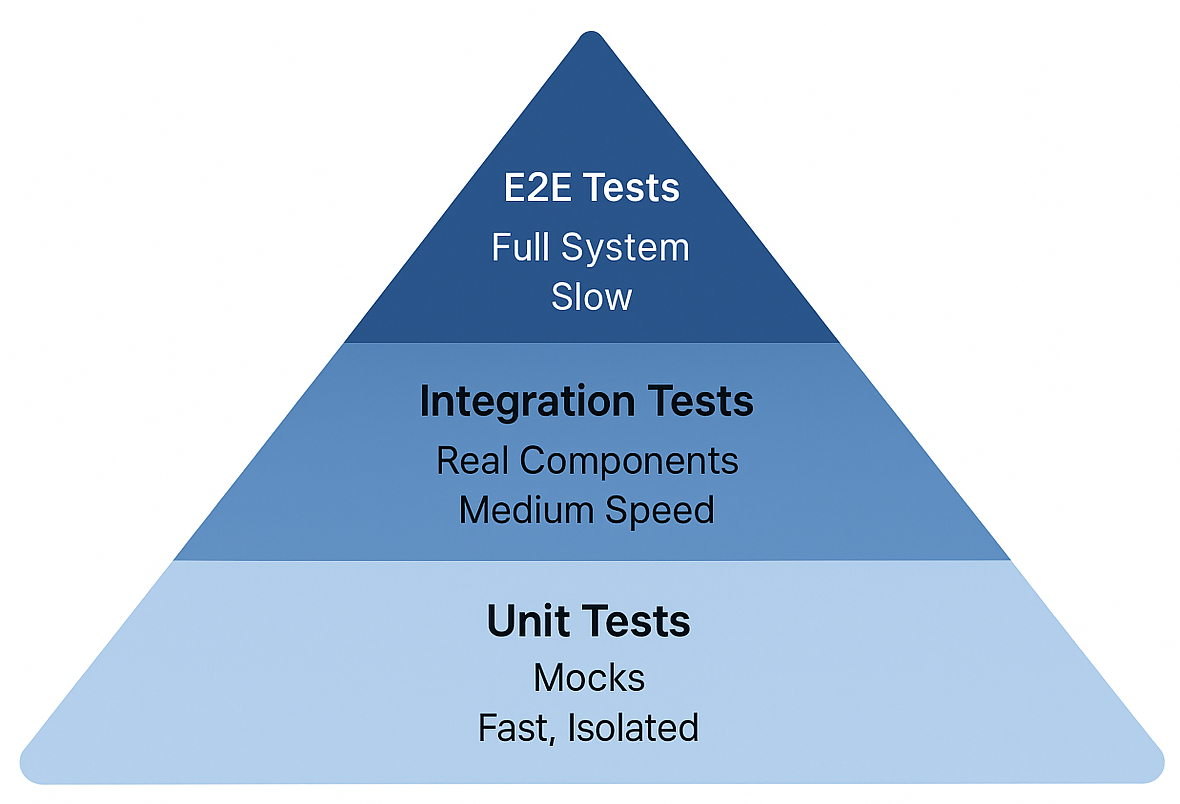
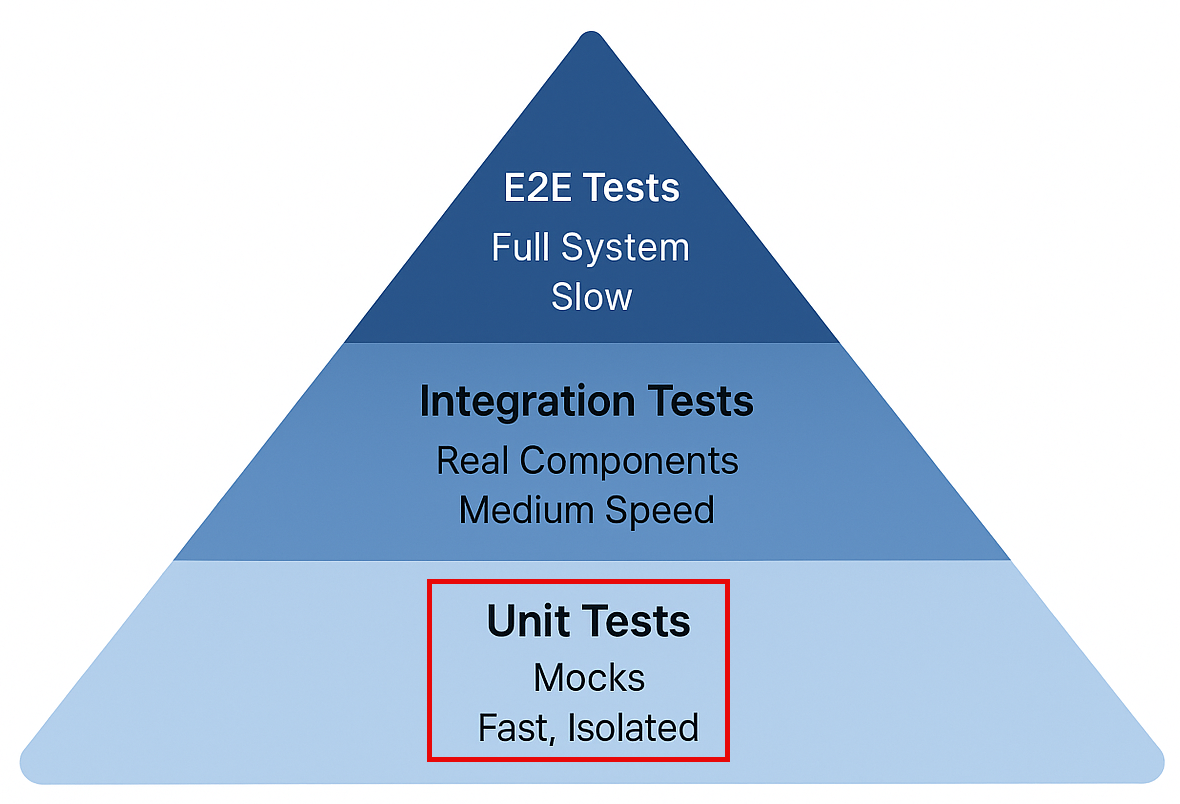
Clarify testing documentation and update testing pyramid image

Changed region(s): [[0.3356, 0.7152, 0.6407, 0.9328], [0.3661, 0.9328, 0.6102, 0.9639]]

diff --git a/docs/TESTING.md b/docs/TESTING.md
@@ -26,11 +26,11 @@ mvn test
 
 ## What the Tests Cover
 
-This course includes tests that run locally. Each test demonstrates a specific LangChain4j concept in isolation.
+This course focuses on **unit tests** that run locally. Each test demonstrates a specific LangChain4j concept in isolation.
 
 <img src="images/testing-pyramid.png" alt="Testing Pyramid" width="800"/>
 
-*Testing pyramid showing the balance between unit tests (fast, isolated), integration tests (real components), and end-to-end tests (full system with Docker)*
+*Testing pyramid showing the balance between unit tests (fast, isolated), integration tests (real components), and end-to-end tests (full system with Docker). This training covers unit testing.*
 
 | Module | Tests | Focus | Key Files |
 |--------|-------|-------|-----------|
